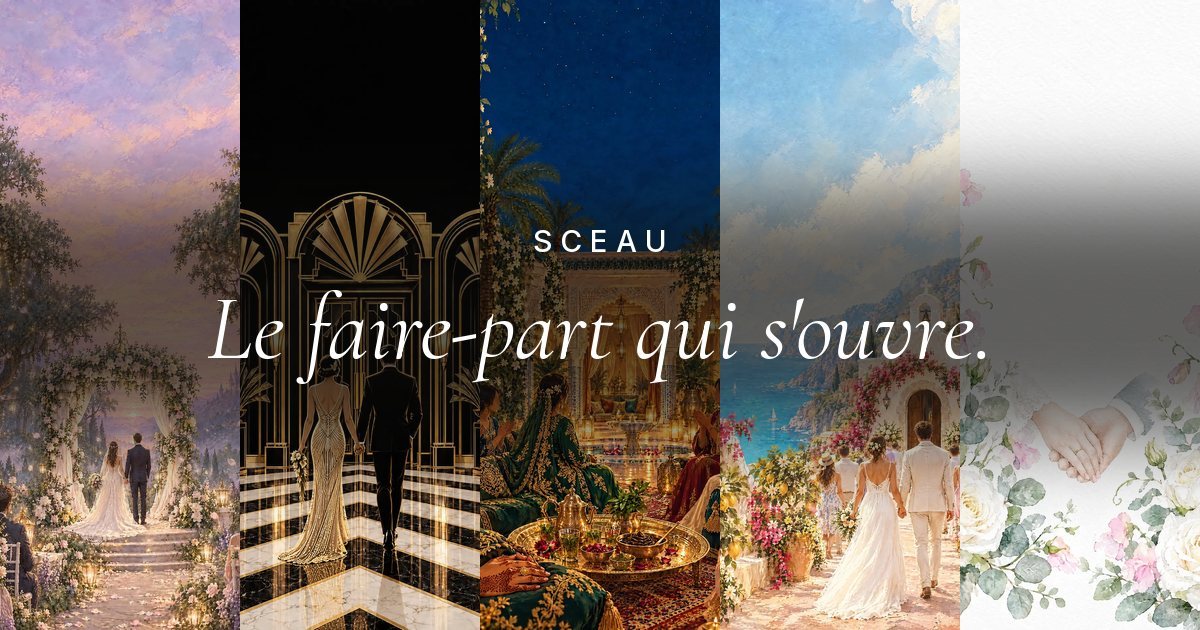
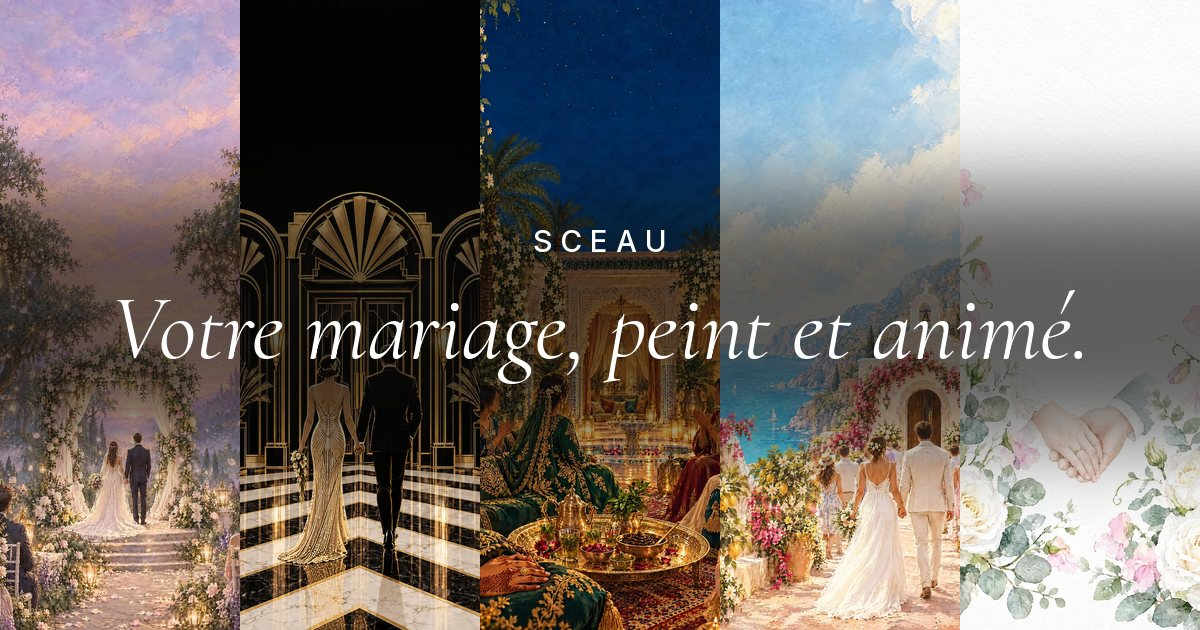
Vitrine : nouvelle proposition de valeur visible dès le HERO
« Le faire-part qui s'ouvre. » ne disait ni pourquoi nous, ni pourquoi pas un
concurrent, ni pourquoi pas le faire soi-même avec une IA. Le HERO porte
maintenant les trois éléments différenciants : vos lieux peints d'après vos
photos (uniques par construction), un produit complet et fiable plutôt qu'une
image générée, et la rapidité et le prix grâce aux thèmes et lieux produits à
l'avance.

- Titre « Votre mariage, peint et animé. », sous-titre et trois preuves réécrits
- Nouvelle section « Pourquoi Sceau, et pas… » (un modèle gratuit, un studio
  sur-mesure, une IA et un dimanche après-midi) juste sous le HERO
- Comparatif à 4 colonnes : Papier, Fait soi-même (modèle ou IA), Studio
  sur-mesure, Sceau ; sur mobile, Fait soi-même contre Sceau
- Titre réduit pour que les preuves restent visibles sans défiler en desktop
- Le tableau comparatif tient enfin dans l'écran mobile (la règle min-width
  mobile était écrasée par la règle générale)
- Titre, description, aperçu WhatsApp (og) alignés sur la nouvelle accroche
- Doc 03 : accroche retenue, pourquoi l'ancienne est abandonnée, et un § 2 bis
  « Pourquoi nous, et pas… » face aux trois alternatives du couple

Claude-Session: https://claude.ai/code/session_015nu5c3p7Usticu4M7aQPJg

Changed region(s): [[0.0925, 0.4825, 0.8942, 0.6032]]

diff --git a/business/landing/index.html b/business/landing/index.html
@@ -3,11 +3,11 @@
 <head>
 <meta charset="utf-8">
 <meta name="viewport" content="width=device-width, initial-scale=1, viewport-fit=cover">
-<title>Sceau — Faire-part animés</title>
-<meta name="description" content="Le faire-part qui s'ouvre. Vos lieux peints et animés, envoyés en un lien. Réponses des invités, calendrier, itinéraire, musique.">
+<title>Sceau — Votre mariage, peint et animé</title>
+<meta name="description" content="Votre mariage, peint et animé. Votre mairie, votre salle, votre ville, peintes d'après vos photos, dans un faire-part qui s'ouvre, joue votre musique et recueille les réponses. Prêt en 48 h à 5 jours, dès 99 €.">
 <meta property="og:type" content="website">
-<meta property="og:title" content="Sceau · Le faire-part qui s'ouvre">
-<meta property="og:description" content="Faire-part de mariage numériques, peints et animés. Ouvrez une démo.">
+<meta property="og:title" content="Sceau · Votre mariage, peint et animé">
+<meta property="og:description" content="Vos lieux peints d'après vos photos, dans un faire-part de mariage animé, envoyé en un lien. Ouvrez une démo.">
 <meta property="og:image" content="https://sceau-faire-part.vercel.app/og-sceau.jpg">
 <meta property="og:image:width" content="1200">
 <meta property="og:image:height" content="630">
@@ -59,7 +59,7 @@
   .hero-more{grid-area:more;align-self:start}
   .car{grid-area:car}
   @media (max-width:900px){ .hero .grid{grid-template-columns:1fr;grid-template-areas:"copy" "car" "more";gap:0} .hero-copy{margin-bottom:28px} }
-  .hero h1{font-size:clamp(48px,9vw,112px)}
+  .hero h1{font-size:clamp(44px,7.4vw,88px);max-width:8.5em}
   .hero p{color:var(--muted);font-size:18px;max-width:30em;margin:28px 0 0}
   .hero .ctas{display:flex;flex-wrap:wrap;gap:10px;margin-top:32px}
   .facts{display:grid;grid-template-columns:repeat(3,1fr);margin-top:56px;border-top:1px solid var(--line)}
@@ -98,6 +98,13 @@
   .roll-txt .nm{margin:10px 0 6px;line-height:1.05}
   .roll-txt .tx{font:italic 400 clamp(13px,1.8vh,16px)/1.35 "Cormorant Garamond",Georgia,serif}
   @media (prefers-reduced-motion:reduce){ .roll img{animation:none} }
+  /* pourquoi nous, et pas un modele, un studio, une IA */
+  .why{display:grid;grid-template-columns:repeat(3,1fr);border-top:1px solid var(--ink)}
+  @media (max-width:820px){ .why{grid-template-columns:1fr} }
+  .why div{padding:22px 28px 26px 0;border-bottom:1px solid var(--line);min-width:0}
+  .why h3{font-size:24px;margin:14px 0 12px;max-width:14em}
+  .why p:not(.label){margin:0;color:var(--muted)}
+
   .car-tag{position:absolute;left:50%;bottom:16px;transform:translateX(-50%);width:max-content;max-width:88%;white-space:nowrap;overflow:hidden;text-overflow:ellipsis;font:500 9.5px/1 Inter,sans-serif;letter-spacing:.2em;text-transform:uppercase;
     color:#fff;padding:8px 12px;border-radius:999px;background:rgba(0,0,0,.32);-webkit-backdrop-filter:blur(6px);backdrop-filter:blur(6px);opacity:0;transition:opacity .4s}
   .car-item.on .car-tag{opacity:1}
@@ -473,8 +480,9 @@
     .pv-tabs::-webkit-scrollbar{display:none}
     .pv-tabs button{flex:none}
     .pv-side{width:100%}
-    .cmp{min-width:0}
-    .cmp th:nth-child(3),.cmp td:nth-child(3){display:none}
+    .cmp-wrap .cmp{min-width:0}
+    /* sur mobile : fait soi-même contre Sceau, c'est la comparaison qui compte */
+    .cmp th:nth-child(2),.cmp td:nth-child(2),.cmp th:nth-child(4),.cmp td:nth-child(4){display:none}
     .cmp th,.cmp td{padding-right:10px;font-size:14px}
     .amount{font-size:46px}
     .cta h2{font-size:36px}
@@ -515,9 +523,9 @@
 <header class="hero">
   <div class="wrap grid">
     <div class="hero-copy">
-      <p class="label">Faire-part numériques</p>
-      <h1 style="margin-top:18px">Le faire-part qui s'ouvre.</h1>
-      <p>Vos lieux peints et animés, qu'on fait défiler du bout du doigt. Un seul lien sur WhatsApp, les réponses de vos invités au même endroit.</p>
+      <p class="label">Faire-part de mariage animés</p>
+      <h1 style="margin-top:18px">Votre mariage, peint et animé.</h1>
+      <p>Votre mairie, votre salle, votre ville d'origine, peintes d'après vos photos et animées scène après scène. Pas un modèle, pas une image générée en dix secondes : un vrai faire-part qui s'ouvre, joue votre musique et recueille les réponses. Vous donnez 10 minutes, on fait le reste.</p>
     </div>
     <div class="car" id="car" aria-roledescription="carrousel" aria-label="Nos créations">
       <div class="kinds" id="kinds" role="tablist" aria-label="Type de création">
@@ -539,13 +547,39 @@
         <a class="btn" href="#continu">Voir les modèles</a>
       </div>
       <div class="facts">
-        <div><b>1 lien</b><span>pour tous vos invités</span></div>
-        <div><b>0 papier</b><span>ni timbre, ni adresse</span></div>
-        <div><b>FR · EN</b><span>et d'autres langues sur demande</span></div>
+        <div><b>Vos lieux</b><span>peints d'après photo : deux couples n'ont jamais le même</span></div>
+        <div><b>48 h à 5 j</b><span>prêt à envoyer, dès 99 €, invités illimités</span></div>
+        <div><b>1 lien</b><span>WhatsApp, réponses, calendrier, FR · EN</span></div>
       </div>
     </div>
   </div>
 </header>
+
+<section id="pourquoi">
+  <div class="wrap">
+    <div class="head">
+      <h2>Pourquoi Sceau, et pas…</h2>
+      <p>Il y a trois autres façons de faire un faire-part numérique. Voici ce qu'elles ne vous donnent pas.</p>
+    </div>
+    <div class="why">
+      <div>
+        <p class="label">… un modèle gratuit</p>
+        <h3>Ils montrent un château générique. Nous, votre mairie.</h3>
+        <p>Canva, Etsy, les sites de modèles : le même décor pour tout le monde, un PDF à transférer, et des réponses à suivre dans un tableur. Ici, vos lieux sont peints d'après vos photos et animés dans le style que vous choisissez. Deux couples n'ont jamais le même faire-part.</p>
+      </div>
+      <div>
+        <p class="label">… un studio sur-mesure</p>
+        <h3>La même qualité, sans les trois semaines ni les centaines d'euros.</h3>
+        <p>Les studios qui recréent votre lieu à la main travaillent bien, mais facturent plusieurs centaines d'euros et livrent en deux à trois semaines. Nos thèmes et notre bibliothèque de lieux sont prêts à l'avance : votre faire-part part en 48 h à 5 jours, dès 99 €, quel que soit le nombre d'invités.</p>
+      </div>
+      <div>
+        <p class="label">… une IA et un dimanche après-midi</p>
+        <h3>Une image, une IA vous la fait en dix secondes. Un faire-part, non.</h3>
+        <p>Il manque tout le reste : l'enveloppe qui s'ouvre au sceau de vos initiales, quatre scènes cohérentes dans le même style, la musique qui démarre, un lien qui s'affiche bien sur WhatsApp et s'ouvre sur le téléphone de votre grand-mère, les réponses par événement, un lien par famille, et quelqu'un à qui écrire la veille du mariage. C'est ce qu'on a mis au point en 47 versions sur notre propre faire-part. Vous, vous donnez 10 minutes.</p>
+      </div>
+    </div>
+  </div>
+</section>
 
 <section id="comment">
   <div class="wrap">
@@ -659,14 +693,16 @@
     </div>
     <div class="cmp-wrap">
       <table class="cmp">
-        <thead><tr><th scope="col"></th><th scope="col">Papier</th><th scope="col">Modèle gratuit en ligne</th><th scope="col" class="us">Sceau</th></tr></thead>
+        <thead><tr><th scope="col"></th><th scope="col">Papier</th><th scope="col">Fait soi-même (modèle ou IA)</th><th scope="col">Studio sur-mesure</th><th scope="col" class="us">Sceau</th></tr></thead>
         <tbody>
-          <tr><th scope="row">Prix pour 300 invités</th><td>500 à 900 € avec l'envoi</td><td>0 à 30 €</td><td class="us">dès 99 €</td></tr>
-          <tr><th scope="row">Famille à l'étranger</th><td>Des semaines, parfois jamais</td><td>Oui</td><td class="us">En une seconde, dans sa langue</td></tr>
-          <tr><th scope="row">Réponses des invités</th><td>Coupons à relancer</td><td>À suivre à la main</td><td class="us">Tableau de bord et relances</td></tr>
-          <tr><th scope="row">Modifier après l'envoi</th><td>Impossible</td><td>Rarement</td><td class="us">Oui, jusqu'au jour J</td></tr>
-          <tr><th scope="row">Vos lieux, peints</th><td>Non</td><td>Non</td><td class="us">Oui</td></tr>
-          <tr><th scope="row">Votre temps</th><td>Des soirées</td><td>Des heures</td><td class="us">10 minutes</td></tr>
+          <tr><th scope="row">Prix pour 300 invités</th><td>500 à 900 € avec l'envoi</td><td>0 à 30 €, plus vos soirées</td><td>200 à 1 000 €</td><td class="us">dès 99 €</td></tr>
+          <tr><th scope="row">Délai</th><td>3 à 6 semaines</td><td>Quand vous avez fini</td><td>2 à 3 semaines</td><td class="us">48 h à 5 jours</td></tr>
+          <tr><th scope="row">Vos lieux, peints</th><td>Non</td><td>Une image, si vous y arrivez</td><td>Oui, en option</td><td class="us">Oui, d'après vos photos</td></tr>
+          <tr><th scope="row">Ouverture, scènes, musique</th><td>Non</td><td>Une image ou une vidéo</td><td>Oui</td><td class="us">Oui, scène après scène</td></tr>
+          <tr><th scope="row">Réponses des invités</th><td>Coupons à relancer</td><td>À suivre à la main</td><td>Formulaire</td><td class="us">Tableau de bord, un lien par famille</td></tr>
+          <tr><th scope="row">Famille à l'étranger</th><td>Des semaines, parfois jamais</td><td>Oui</td><td>Oui</td><td class="us">En une seconde, dans sa langue</td></tr>
+          <tr><th scope="row">Modifier après l'envoi</th><td>Impossible</td><td>À refaire et renvoyer</td><td>Sur demande</td><td class="us">Oui, jusqu'au jour J</td></tr>
+          <tr><th scope="row">Votre temps</th><td>Des soirées</td><td>Des week-ends</td><td>Des allers-retours</td><td class="us">10 minutes</td></tr>
         </tbody>
       </table>
     </div>

diff --git a/business/site/index.html b/business/site/index.html
@@ -3,11 +3,11 @@
 <head>
 <meta charset="utf-8">
 <meta name="viewport" content="width=device-width, initial-scale=1, viewport-fit=cover">
-<title>Sceau — Faire-part animés</title>
-<meta name="description" content="Le faire-part qui s'ouvre. Vos lieux peints et animés, envoyés en un lien. Réponses des invités, calendrier, itinéraire, musique.">
+<title>Sceau — Votre mariage, peint et animé</title>
+<meta name="description" content="Votre mariage, peint et animé. Votre mairie, votre salle, votre ville, peintes d'après vos photos, dans un faire-part qui s'ouvre, joue votre musique et recueille les réponses. Prêt en 48 h à 5 jours, dès 99 €.">
 <meta property="og:type" content="website">
-<meta property="og:title" content="Sceau · Le faire-part qui s'ouvre">
-<meta property="og:description" content="Faire-part de mariage numériques, peints et animés. Ouvrez une démo.">
+<meta property="og:title" content="Sceau · Votre mariage, peint et animé">
+<meta property="og:description" content="Vos lieux peints d'après vos photos, dans un faire-part de mariage animé, envoyé en un lien. Ouvrez une démo.">
 <meta property="og:image" content="https://sceau-faire-part.vercel.app/og-sceau.jpg">
 <meta property="og:image:width" content="1200">
 <meta property="og:image:height" content="630">
@@ -59,7 +59,7 @@
   .hero-more{grid-area:more;align-self:start}
   .car{grid-area:car}
   @media (max-width:900px){ .hero .grid{grid-template-columns:1fr;grid-template-areas:"copy" "car" "more";gap:0} .hero-copy{margin-bottom:28px} }
-  .hero h1{font-size:clamp(48px,9vw,112px)}
+  .hero h1{font-size:clamp(44px,7.4vw,88px);max-width:8.5em}
   .hero p{color:var(--muted);font-size:18px;max-width:30em;margin:28px 0 0}
   .hero .ctas{display:flex;flex-wrap:wrap;gap:10px;margin-top:32px}
   .facts{display:grid;grid-template-columns:repeat(3,1fr);margin-top:56px;border-top:1px solid var(--line)}
@@ -98,6 +98,13 @@
   .roll-txt .nm{margin:10px 0 6px;line-height:1.05}
   .roll-txt .tx{font:italic 400 clamp(13px,1.8vh,16px)/1.35 "Cormorant Garamond",Georgia,serif}
   @media (prefers-reduced-motion:reduce){ .roll img{animation:none} }
+  /* pourquoi nous, et pas un modele, un studio, une IA */
+  .why{display:grid;grid-template-columns:repeat(3,1fr);border-top:1px solid var(--ink)}
+  @media (max-width:820px){ .why{grid-template-columns:1fr} }
+  .why div{padding:22px 28px 26px 0;border-bottom:1px solid var(--line);min-width:0}
+  .why h3{font-size:24px;margin:14px 0 12px;max-width:14em}
+  .why p:not(.label){margin:0;color:var(--muted)}
+
   .car-tag{position:absolute;left:50%;bottom:16px;transform:translateX(-50%);width:max-content;max-width:88%;white-space:nowrap;overflow:hidden;text-overflow:ellipsis;font:500 9.5px/1 Inter,sans-serif;letter-spacing:.2em;text-transform:uppercase;
     color:#fff;padding:8px 12px;border-radius:999px;background:rgba(0,0,0,.32);-webkit-backdrop-filter:blur(6px);backdrop-filter:blur(6px);opacity:0;transition:opacity .4s}
   .car-item.on .car-tag{opacity:1}
@@ -473,8 +480,9 @@
     .pv-tabs::-webkit-scrollbar{display:none}
     .pv-tabs button{flex:none}
     .pv-side{width:100%}
-    .cmp{min-width:0}
-    .cmp th:nth-child(3),.cmp td:nth-child(3){display:none}
+    .cmp-wrap .cmp{min-width:0}
+    /* sur mobile : fait soi-même contre Sceau, c'est la comparaison qui compte */
+    .cmp th:nth-child(2),.cmp td:nth-child(2),.cmp th:nth-child(4),.cmp td:nth-child(4){display:none}
     .cmp th,.cmp td{padding-right:10px;font-size:14px}
     .amount{font-size:46px}
     .cta h2{font-size:36px}
@@ -515,9 +523,9 @@
 <header class="hero">
   <div class="wrap grid">
     <div class="hero-copy">
-      <p class="label">Faire-part numériques</p>
-      <h1 style="margin-top:18px">Le faire-part qui s'ouvre.</h1>
-      <p>Vos lieux peints et animés, qu'on fait défiler du bout du doigt. Un seul lien sur WhatsApp, les réponses de vos invités au même endroit.</p>
+      <p class="label">Faire-part de mariage animés</p>
+      <h1 style="margin-top:18px">Votre mariage, peint et animé.</h1>
+      <p>Votre mairie, votre salle, votre ville d'origine, peintes d'après vos photos et animées scène après scène. Pas un modèle, pas une image générée en dix secondes : un vrai faire-part qui s'ouvre, joue votre musique et recueille les réponses. Vous donnez 10 minutes, on fait le reste.</p>
     </div>
     <div class="car" id="car" aria-roledescription="carrousel" aria-label="Nos créations">
       <div class="kinds" id="kinds" role="tablist" aria-label="Type de création">
@@ -539,13 +547,39 @@
         <a class="btn" href="#continu">Voir les modèles</a>
       </div>
       <div class="facts">
-        <div><b>1 lien</b><span>pour tous vos invités</span></div>
-        <div><b>0 papier</b><span>ni timbre, ni adresse</span></div>
-        <div><b>FR · EN</b><span>et d'autres langues sur demande</span></div>
+        <div><b>Vos lieux</b><span>peints d'après photo : deux couples n'ont jamais le même</span></div>
+        <div><b>48 h à 5 j</b><span>prêt à envoyer, dès 99 €, invités illimités</span></div>
+        <div><b>1 lien</b><span>WhatsApp, réponses, calendrier, FR · EN</span></div>
       </div>
     </div>
   </div>
 </header>
+
+<section id="pourquoi">
+  <div class="wrap">
+    <div class="head">
+      <h2>Pourquoi Sceau, et pas…</h2>
+      <p>Il y a trois autres façons de faire un faire-part numérique. Voici ce qu'elles ne vous donnent pas.</p>
+    </div>
+    <div class="why">
+      <div>
+        <p class="label">… un modèle gratuit</p>
+        <h3>Ils montrent un château générique. Nous, votre mairie.</h3>
+        <p>Canva, Etsy, les sites de modèles : le même décor pour tout le monde, un PDF à transférer, et des réponses à suivre dans un tableur. Ici, vos lieux sont peints d'après vos photos et animés dans le style que vous choisissez. Deux couples n'ont jamais le même faire-part.</p>
+      </div>
+      <div>
+        <p class="label">… un studio sur-mesure</p>
+        <h3>La même qualité, sans les trois semaines ni les centaines d'euros.</h3>
+        <p>Les studios qui recréent votre lieu à la main travaillent bien, mais facturent plusieurs centaines d'euros et livrent en deux à trois semaines. Nos thèmes et notre bibliothèque de lieux sont prêts à l'avance : votre faire-part part en 48 h à 5 jours, dès 99 €, quel que soit le nombre d'invités.</p>
+      </div>
+      <div>
+        <p class="label">… une IA et un dimanche après-midi</p>
+        <h3>Une image, une IA vous la fait en dix secondes. Un faire-part, non.</h3>
+        <p>Il manque tout le reste : l'enveloppe qui s'ouvre au sceau de vos initiales, quatre scènes cohérentes dans le même style, la musique qui démarre, un lien qui s'affiche bien sur WhatsApp et s'ouvre sur le téléphone de votre grand-mère, les réponses par événement, un lien par famille, et quelqu'un à qui écrire la veille du mariage. C'est ce qu'on a mis au point en 47 versions sur notre propre faire-part. Vous, vous donnez 10 minutes.</p>
+      </div>
+    </div>
+  </div>
+</section>
 
 <section id="comment">
   <div class="wrap">
@@ -659,14 +693,16 @@
     </div>
     <div class="cmp-wrap">
       <table class="cmp">
-        <thead><tr><th scope="col"></th><th scope="col">Papier</th><th scope="col">Modèle gratuit en ligne</th><th scope="col" class="us">Sceau</th></tr></thead>
+        <thead><tr><th scope="col"></th><th scope="col">Papier</th><th scope="col">Fait soi-même (modèle ou IA)</th><th scope="col">Studio sur-mesure</th><th scope="col" class="us">Sceau</th></tr></thead>
         <tbody>
-          <tr><th scope="row">Prix pour 300 invités</th><td>500 à 900 € avec l'envoi</td><td>0 à 30 €</td><td class="us">dès 99 €</td></tr>
-          <tr><th scope="row">Famille à l'étranger</th><td>Des semaines, parfois jamais</td><td>Oui</td><td class="us">En une seconde, dans sa langue</td></tr>
-          <tr><th scope="row">Réponses des invités</th><td>Coupons à relancer</td><td>À suivre à la main</td><td class="us">Tableau de bord et relances</td></tr>
-          <tr><th scope="row">Modifier après l'envoi</th><td>Impossible</td><td>Rarement</td><td class="us">Oui, jusqu'au jour J</td></tr>
-          <tr><th scope="row">Vos lieux, peints</th><td>Non</td><td>Non</td><td class="us">Oui</td></tr>
-          <tr><th scope="row">Votre temps</th><td>Des soirées</td><td>Des heures</td><td class="us">10 minutes</td></tr>
+          <tr><th scope="row">Prix pour 300 invités</th><td>500 à 900 € avec l'envoi</td><td>0 à 30 €, plus vos soirées</td><td>200 à 1 000 €</td><td class="us">dès 99 €</td></tr>
+          <tr><th scope="row">Délai</th><td>3 à 6 semaines</td><td>Quand vous avez fini</td><td>2 à 3 semaines</td><td class="us">48 h à 5 jours</td></tr>
+          <tr><th scope="row">Vos lieux, peints</th><td>Non</td><td>Une image, si vous y arrivez</td><td>Oui, en option</td><td class="us">Oui, d'après vos photos</td></tr>
+          <tr><th scope="row">Ouverture, scènes, musique</th><td>Non</td><td>Une image ou une vidéo</td><td>Oui</td><td class="us">Oui, scène après scène</td></tr>
+          <tr><th scope="row">Réponses des invités</th><td>Coupons à relancer</td><td>À suivre à la main</td><td>Formulaire</td><td class="us">Tableau de bord, un lien par famille</td></tr>
+          <tr><th scope="row">Famille à l'étranger</th><td>Des semaines, parfois jamais</td><td>Oui</td><td>Oui</td><td class="us">En une seconde, dans sa langue</td></tr>
+          <tr><th scope="row">Modifier après l'envoi</th><td>Impossible</td><td>À refaire et renvoyer</td><td>Sur demande</td><td class="us">Oui, jusqu'au jour J</td></tr>
+          <tr><th scope="row">Votre temps</th><td>Des soirées</td><td>Des week-ends</td><td>Des allers-retours</td><td class="us">10 minutes</td></tr>
         </tbody>
       </table>
     </div>

diff --git a/business/build-site.py b/business/build-site.py
@@ -207,7 +207,7 @@ def site_og(T):
     d = ImageDraw.Draw(im)
     f1 = ImageFont.truetype(os.path.join(FONTS, 'Inter_wght_500.ttf'), 30)
     f2 = ImageFont.truetype(os.path.join(FONTS, 'Cormorant_Garamond_ital_wght_1_400.ttf'), 92)
-    for txt, f, y, sp in [('S C E A U', f1, 222, 0), ("Le faire-part qui s'ouvre.", f2, 272, 0)]:
+    for txt, f, y, sp in [('S C E A U', f1, 222, 0), ("Votre mariage, peint et animé.", f2, 272, 0)]:
         w = d.textlength(txt, font=f)
         d.text(((W - w) / 2, y), txt, font=f, fill=(255, 255, 255))
     im.save(os.path.join(SITE, 'og-sceau.jpg'), 'JPEG', quality=84, optimize=True)

diff --git a/business/03-proposition-de-valeur.md b/business/03-proposition-de-valeur.md
@@ -3,24 +3,52 @@
 ## 1. Positionnement
 
 > **Pour les couples** qui veulent un faire-part aussi beau que leur mariage, sans le coût ni la lenteur du papier,
-> **Sceau** est **le faire-part qui s'ouvre comme un film** :
-> **vos lieux, peints et animés**, qu'on fait défiler du bout du doigt, envoyés en un lien sur WhatsApp,
-> avec tout le pratique intégré (RSVP, calendrier, itinéraire, plusieurs langues).
-> **Contrairement** aux modèles génériques (Canva, Etsy) et aux faire-part numériques « à portes et rideaux »,
-> **chaque faire-part Sceau est unique**, parce qu'il montre *votre* mairie, *votre* salle, *votre* ville.
+> **Sceau** est **votre mariage, peint et animé** :
+> **votre mairie, votre salle, votre ville d'origine**, peintes d'après vos photos et animées scène après scène,
+> dans un vrai faire-part qui s'ouvre, joue votre musique et recueille les réponses, envoyé en un lien sur WhatsApp.
+> **Contrairement** aux modèles génériques (Canva, Etsy, Weddinvita), aux studios sur-mesure (plusieurs centaines d'euros, 2 à 3 semaines)
+> et à l'image qu'on génère soi-même avec une IA, **chaque faire-part Sceau est unique et complet** : vos lieux, et tout ce qui va autour,
+> prêt en 48 h à 5 jours, dès 99 €.
 
-### Accroches possibles
-- « Touchez le sceau. »
-- « Votre mariage, peint. Votre faire-part, animé. »
+### L'accroche retenue (vitrine, `landing/index.html`)
+
+_« Le faire-part qui s'ouvre. »_ a été abandonné le 2 octobre 2026 : c'est joli mais ça ne dit ni pourquoi nous, ni pourquoi pas un concurrent, ni pourquoi pas le faire soi-même.
+L'ouverture existe chez The Digital Yes et Perfect Yes, et n'importe quelle vidéo IA « s'ouvre ». Ce n'est pas un élément différenciant.
+
+| Bloc du HERO | Texte | Ce qu'il porte |
+|---|---|---|
+| Titre | **Votre mariage, peint et animé.** | « Votre » = pas un modèle. « Peint et animé » = le rendu que les modèles n'ont pas |
+| Sous-titre | Votre mairie, votre salle, votre ville d'origine, peintes d'après vos photos et animées scène après scène. Pas un modèle, pas une image générée en dix secondes : un vrai faire-part qui s'ouvre, joue votre musique et recueille les réponses. Vous donnez 10 minutes, on fait le reste. | Les lieux (contre les modèles), le produit complet (contre l'IA faite maison), le temps du couple |
+| 3 preuves | **Vos lieux** peints d'après photo · **48 h à 5 j** dès 99 €, invités illimités · **1 lien** WhatsApp, réponses, calendrier, FR · EN | Unique, rapide et pas cher (contre les studios), complet |
+
+Juste sous le HERO, une section **« Pourquoi Sceau, et pas… »** reprend les trois alternatives une par une (voir le § 2 bis), et le comparatif de la section « Ce que vous achetez » a maintenant 4 colonnes : Papier · Fait soi-même (modèle ou IA) · Studio sur-mesure · Sceau.
+
+### Autres accroches gardées sous le coude
+- « Touchez le sceau. » (geste, pour les vidéos TikTok)
 - « Le faire-part qu'on ne jette pas. On le rouvre. »
 - « De la mairie à la salle, ils vivront la journée avant même d'y être. »
-- En anglais : *« Break the seal. »*
+- « Une image, une IA vous la fait en dix secondes. Un faire-part, non. » (utilisée dans la section Pourquoi)
+- En anglais : *« Your wedding, painted and animated. »*, *« Break the seal. »*
 
 ## 2. La promesse en 3 bénéfices
 
 | Émotionnel | Pratique | Économique |
 |---|---|---|
 | Un vrai **moment d'ouverture** (sceau, enveloppe, musique). Les invités **vivent** la journée scène après scène. Les parents sont fiers de l'envoyer dans le groupe famille | RSVP par événement, calendrier, itinéraire, langues, modifiable jusqu'au jour J, **aucune adresse postale nécessaire** | **Prix fixe, invités illimités**. Moins cher que le papier dès ~100 invités. Rien à envoyer par la poste |
+
+## 2 bis. Pourquoi nous, et pas… (les trois alternatives du couple)
+
+Un couple qui hésite a trois autres options. Pour chacune, ce qu'elle fait bien, ce qu'elle ne donne pas, et notre réponse en une phrase. C'est le texte de la section « Pourquoi Sceau, et pas… » de la vitrine.
+
+| Alternative | Ce qu'elle fait bien | Ce qu'elle ne donne pas | Notre réponse |
+|---|---|---|---|
+| **Un modèle gratuit ou à 10–30 €** (Canva, Etsy, Joy, Weddinvita à 149 €) | Gratuit ou presque, tout de suite | Un décor générique (le même château pour tout le monde), un PDF ou une page figée, pas d'animation, réponses à suivre dans un tableur, « ça fait cheap » pour les parents | **Vos lieux, peints d'après vos photos.** Deux couples n'ont jamais le même faire-part |
+| **Un studio sur-mesure** (The Digital Yes 175–975 €, Perfect Yes 199–499 €) | Beau, enveloppe à sceau, lieu recréé, service humain | 2 à 3 semaines de délai, plusieurs centaines d'euros dès qu'on veut son lieu, allers-retours par e-mail | **La même qualité, prête à l'avance.** Thèmes et bibliothèque de lieux déjà produits : 48 h à 5 jours, dès 99 €, invités illimités |
+| **Le faire soi-même avec une IA** (ChatGPT, Canva AI, Kling, Higgsfield, un dimanche après-midi) | Une belle image ou une vidéo de 5 secondes, en dix secondes, pour rien | Tout le reste : l'ouverture, 4 scènes cohérentes dans le même style, la musique qui démarre, l'aperçu WhatsApp, un lien qui marche sur un vieux téléphone en 4G, les réponses par événement, un lien par famille, les données des invités hébergées proprement, les modifications jusqu'au jour J, quelqu'un à qui écrire la veille | **Une image, une IA vous la fait en dix secondes. Un faire-part, non.** C'est 47 versions sur notre propre faire-part. Le couple donne 10 minutes |
+
+Ce qui ressort : notre différence n'est pas « ça s'ouvre » ni même « c'est animé » (une IA grand public le fait). C'est **(1) vos lieux, uniques par construction, (2) un produit complet et fiable, pas une image, (3) rapide et pas cher parce que tout est produit à l'avance.** Les trois doivent être lisibles dans le HERO, et c'est le cas depuis le 2 octobre 2026.
+
+> **Argument face à l'IA, à garder en tête pour le discours et les vidéos :** on ne nie pas l'IA, on dit que l'image est la partie facile. Ce qui se paie, c'est l'intégration et la fiabilité (RSVP, familles, langues, performance, aperçu WhatsApp, SAV), exactement ce que le SWOT identifie comme notre avance durable (doc 02, menace « Les couples le font eux-mêmes avec l'IA »).
 
 ## 3. Les 7 leviers pour se démarquer
 
